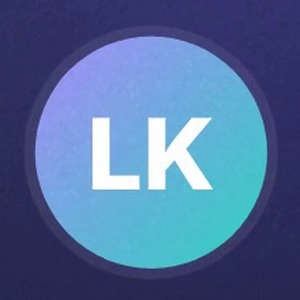
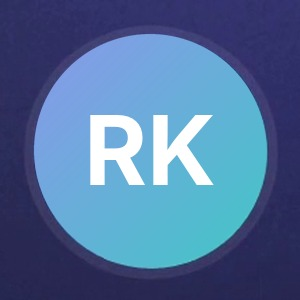
Update name and add project images

diff --git a/index.html b/index.html
@@ -3,12 +3,12 @@
 <head>
     <meta charset="UTF-8">
     <meta name="viewport" content="width=device-width, initial-scale=1.0">
-    <title>Lavkush Kumar - Web Developer</title>
-    <meta name="description" content="Lavkush Kumar ki portfolio website - HTML projects, skills aur contact">
+    <title>Rahul Kumar - Web Developer</title>
+    <meta name="description" content="Rahul Kumar ki portfolio website - HTML projects, skills aur contact">
 </head>
 <body>
     <header>
-        <h1>Lavkush Kumar</h1>
+        <h1>Rahul Kumar</h1>
         <p>Web Developer, Delhi</p>
         <nav>
             <a href="index.html">Home</a> |
@@ -19,7 +19,7 @@
     <main>
         <section id="about">
             <h2>Mere Baare Mein</h2>
-            <img src="images/profile.jpg" alt="Lavkush Kumar ki photo" width="150">
+            <img src="images/profile.jpg" alt="Rahul Kumar ki photo" width="150">
             <p>Main ek <strong>web developer</strong> hoon. Mujhe websites banana pasand hai.</p>
         </section>
         <section id="skills">
@@ -32,7 +32,7 @@
         </section>
     </main>
     <footer>
-        <p>&copy; 2026 Lavkush Kumar | <a href="https://www.youtube.com/@codingcush" target="_blank">YouTube</a></p>
+        <p>&copy; 2026 Rahul Kumar | <a href="https://www.youtube.com/@codingcush" target="_blank">YouTube</a></p>
     </footer>
 </body>
 </html>

diff --git a/contact.html b/contact.html
@@ -7,7 +7,7 @@
 </head>
 <body>
     <header>
-        <h1>Lavkush Kumar</h1>
+        <h1>Rahul Kumar</h1>
         <p>Web Developer, Delhi</p>
         <nav>
             <a href="index.html">Home</a> |
@@ -38,7 +38,7 @@
         </section>
     </main>
     <footer>
-        <p>&copy; 2026 Lavkush Kumar | <a href="https://www.youtube.com/@codingcush" target="_blank">YouTube</a></p>
+        <p>&copy; 2026 Rahul Kumar | <a href="https://www.youtube.com/@codingcush" target="_blank">YouTube</a></p>
     </footer>
 </body>
 </html>

diff --git a/projects.html b/projects.html
@@ -7,7 +7,7 @@
 </head>
 <body>
     <header>
-        <h1>Lavkush Kumar</h1>
+        <h1>Rahul Kumar</h1>
         <p>Web Developer, Delhi</p>
         <nav>
             <a href="index.html">Home</a> |
@@ -41,7 +41,7 @@
         </table>
     </main>
     <footer>
-        <p>&copy; 2026 Lavkush Kumar | <a href="https://www.youtube.com/@codingcush" target="_blank">YouTube</a></p>
+        <p>&copy; 2026 Rahul Kumar | <a href="https://www.youtube.com/@codingcush" target="_blank">YouTube</a></p>
     </footer>
 </body>
 </html>
